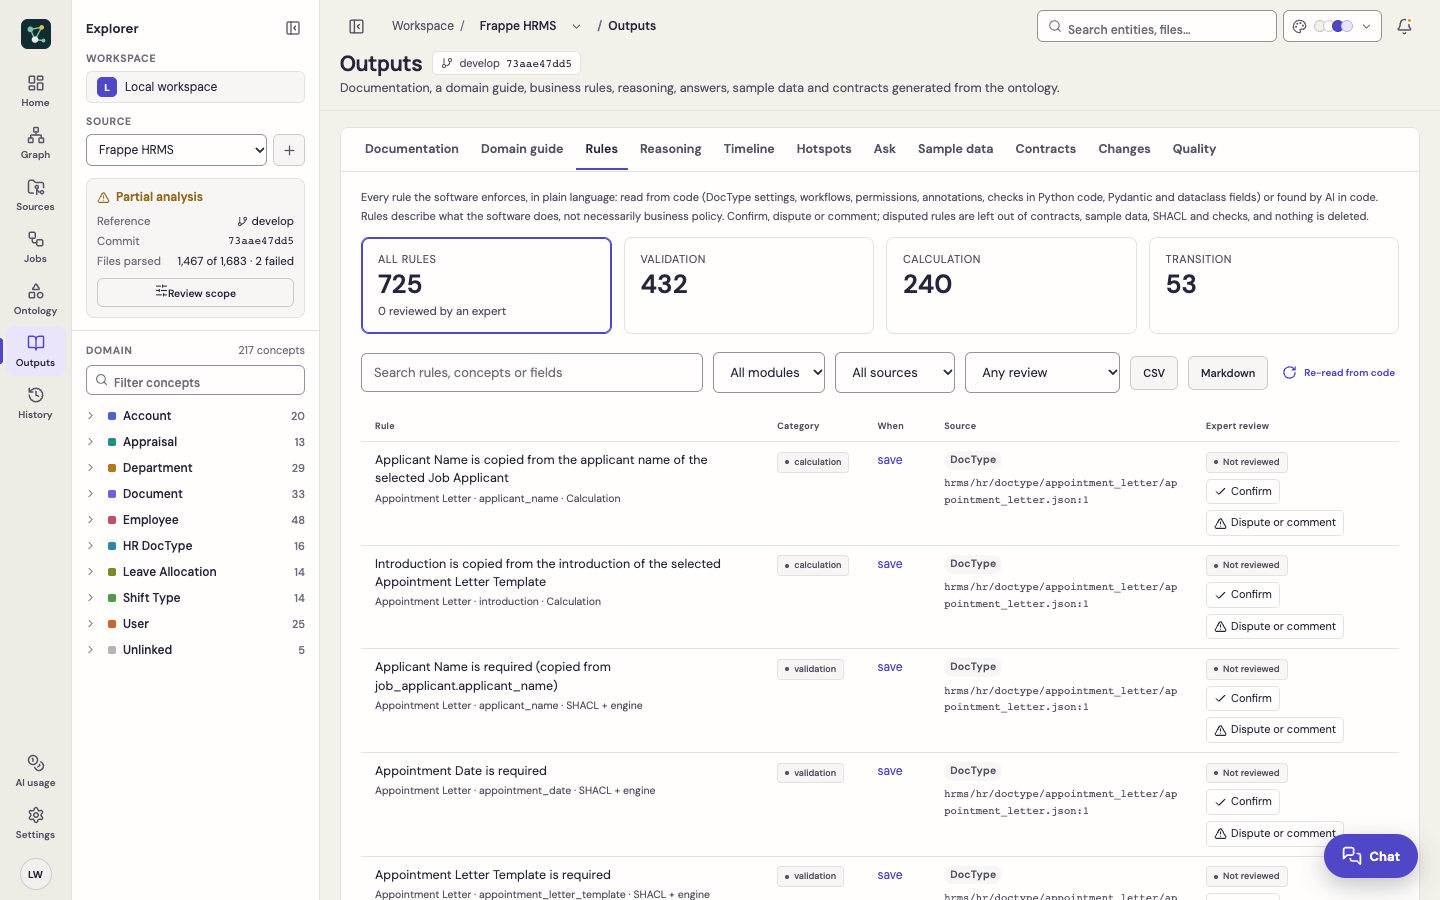
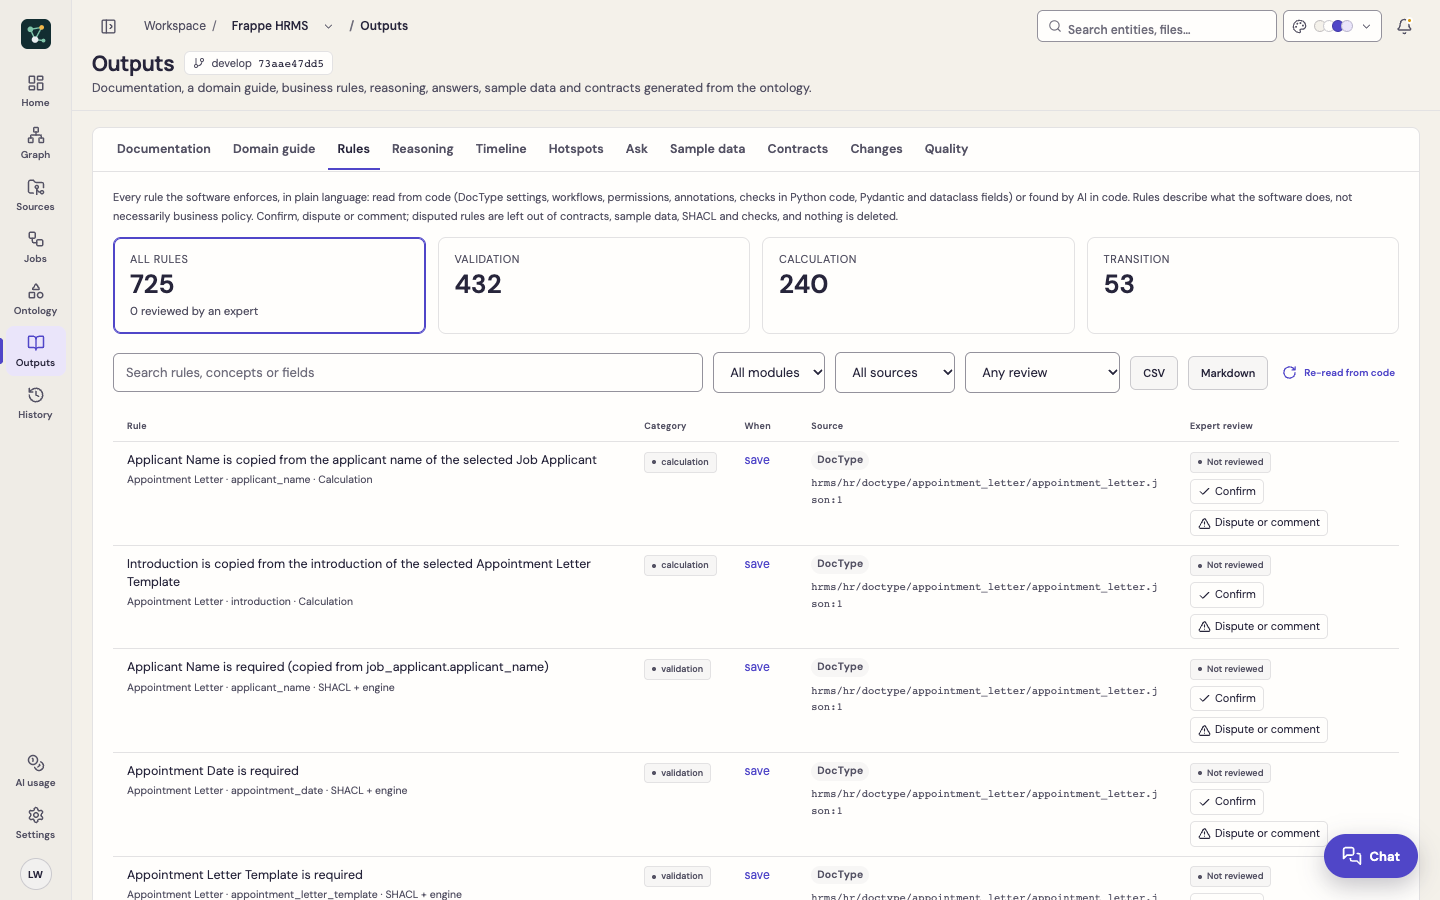
Docs: screenshots with the explorer collapsed, add full screen
Retake the documentation screenshots with the explorer panel collapsed so
the pages show more of each view, and add a screenshot of the Knowledge
Graph in full screen (user guide and README gallery).

diff --git a/README.md b/README.md
@@ -56,6 +56,8 @@ Use it to onboard developers and analysts, document legacy systems, review busin
 | **Impact of a change** with explanation chains | **Business rules** read from code, reviewed by experts |
 | ![Ontology timeline](docs/images/timeline.png) | ![Grounded chat about a codebase](docs/images/chat.png) |
 | **Timeline** of ontology versions | **Chat** grounded in the source's data |
+| ![Knowledge Graph in full screen](docs/images/knowledge-graph-fullscreen.png) | ![Compare: domain and code side by side](docs/images/compare.png) |
+| **Full screen**: the graph uses the whole window | **Compare**: concepts and the code behind them |
 
 Screenshots show OntoForge analysing [Frappe HRMS](https://github.com/frappe/hrms) and [ERPNext](https://github.com/frappe/erpnext).
 

diff --git a/docs/user-guide/knowledge-graph.md b/docs/user-guide/knowledge-graph.md
@@ -26,6 +26,12 @@ Switch between them with **Domain / Code** in the toolbar. The concept→code ma
 
 At narrower widths the explorer panel opens as an overlay and the inspector as a drawer, so the graph keeps the space.
 
+### Full screen
+
+**Full screen** (the arrows at the right of the tab bar) gives the graph the whole window: tabs, toolbar, canvas and inspector stay, everything else is hidden. Press Esc or the same button to return.
+
+![Knowledge Graph in full screen with Salary Slip selected](../images/knowledge-graph-fullscreen.png)
+
 ## Tabs
 
 | Tab | Views |
